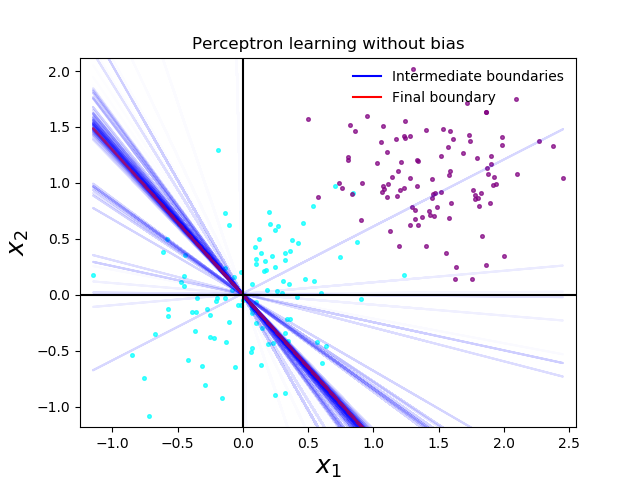
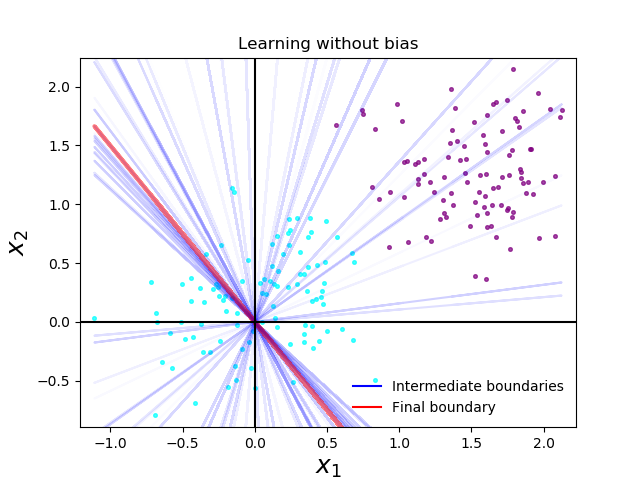
fixed error with plotting and 3.1.2.3 done

diff --git a/ann.py b/ann.py
@@ -60,8 +60,8 @@ class ANN:
         index_shuffle = np.random.permutation(X.shape[0])
         X = X[index_shuffle]
         Y = Y[index_shuffle]
-        bias_vec = self.bias * np.ones((X.shape[0], 1))  # put a minus in front
-        X = np.hstack((X, bias_vec))  #  changed so bias is after (before it was beginning)
+        bias_vec = self.bias * np.ones((X.shape[0], 1))  # add bias
+        X = np.hstack((X, bias_vec))  #  bias is the last element of each input
         return X, Y
 
     def train_batch(self, verbose=False):
@@ -72,6 +72,8 @@ class ANN:
         self.int_w = {}
         self.error_history = []
         while iteration < self.epochs:
+            print("W: ")
+            print(self.w)
             #take a random batch or sequential batch?
             data = self.train_data
             targets = self.train_targets
@@ -193,7 +195,6 @@ class ANN:
             self.predictions[num_data] = self.activation_function()
             diff = self.sum - targets
             delta_w = self.learning_rate * np.multiply(X, diff)
-
         return delta_w
 
 
@@ -229,7 +230,7 @@ class ANN:
         """
         Plot data as classified from the NN and the decision boundary of the weights
         """
-        
+
         fig, ax = plt.subplots()
         if data_coloring is not None:
             classA_ind = np.where(data_coloring > 0)[0]
@@ -249,20 +250,20 @@ class ANN:
             for i in range(len(self.int_w)):
                 part1 = self.int_w[i][0] / self.int_w[i][1]
                 part2 = self.int_w[i][2] / self.int_w[i][1]
-                x2 = np.array([- part1 * x + part2 for x in x1])
+                x2 = np.array([- part1 * x - self.bias*part2 for x in x1])
                 ax.plot(x1, x2, 'b', alpha=0.2*float(i + 1) /(len(self.int_w) + 1))
         #plot final decision boundary
         part1 = self.w[0] / self.w[1]
         part2 = self.w[2] / self.w[1]
-        x2 = np.array([- part1 * x + part2 for x in x1])
-        # ax.plot(x1, x2, alpha=0.5, color='red', label='final decision boundary')
+        x2 = np.array([- part1 * x - self.bias*part2 for x in x1])
+        ax.plot(x1, x2, alpha=0.5, color='red', linewidth=3, label='final decision boundary')
 
         # if you want to plot multiple ann's and compare them
         if ann_list:
             for ann in ann_list:
                 part1 = ann.w[0] / ann.w[1]
                 part2 = ann.w[2] / ann.w[1]
-                x2 = np.array([- part1 * x - part2 for x in x1])
+                x2 = np.array([- part1 * x - self.bias*part2 for x in x1])
             ax.plot(x1, x2, '--', alpha=0.5, label=ann.learn_method)
 
         # plot data points
@@ -280,7 +281,7 @@ class ANN:
         if title:
             ax.set_title(title)
         custom_lines = [Line2D([0], [0], color='b'), Line2D([0], [0], color='r')]
-        ax.legend(custom_lines, ['Intermediate boundaries', 'Final boundary'], frameon=False, loc='bottom right')
+        ax.legend(custom_lines, ['Intermediate boundaries', 'Final boundary'], frameon=False, loc='lower right')
         # ax.legend(frameon=False)
         ax.set_xlabel('$x_1$', fontsize=18)
         ax.set_ylabel('$x_2$', fontsize=18)

diff --git a/run.py b/run.py
@@ -10,15 +10,10 @@ N = 200
 n = int(N/2)  # 2 because we have n*2 data
 features = 2  # input vectors / patterns
 
-# mA = np.array([ 1.0, 0.5])
-# sigmaA = 0.2
-# mB = np.array([-1.0, 0.0])
-# sigmaB = 0.2
-mA = np.array([0, 0])
-sigmaA = 0.4
-mB = np.array([1.5,1])
-sigmaB = 0.4
-plot_data = False
+mA = np.array([ 1.0, 0.5])
+sigmaA = 0.2
+mB = np.array([-1.0, 0.0])
+sigmaB = 0.2
 
 test_n = 50
 test_mA = np.array([ 1.0, 0.5])
@@ -118,14 +113,14 @@ def bias_influence(X,Y):
         "batch_size": 1,
         "theta": 0,
         "epsilon": 0.0,  # slack for error during training
-        "epochs": 100,
+        "epochs": 50,
         "act_fun": 'step',
         "test_data": None,
         "test_targets": None,
         "m_weights": 0,
         "sigma_weights": 0.5,
         "nodes": 1,
-        "learn_method": 'delta_rule',  # 'delta_rule'
+        "learn_method": 'perceptron',  # 'delta_rule' or 'perceptron'
         "bias": 0
     }
     ann = ANN(X, Y, **params)

diff --git a/generate_data.py b/generate_data.py
@@ -22,7 +22,7 @@ class DataBase:
             classA[:,feature] = np.random.normal(mA[feature], sigmaA, n)
             classB[:,feature] = np.random.normal(mB[feature], sigmaB, n)
 
-        if (plot):
+        if plot:
             self.plot_data(classA, classB)
 
         X = np.vstack((classA, classB))
